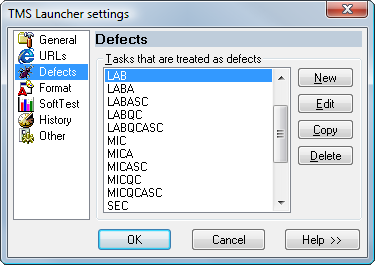
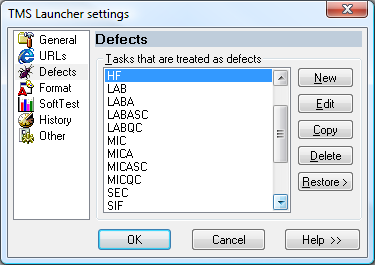
Modified HTML help for version 3.1

diff --git a/Help/whats_new.html b/Help/whats_new.html
@@ -19,30 +19,18 @@
 <H2 align="center" class="boldfont">What's new in this release?</H2>
 <H4 align="justify" class="font">
 <UL>
-  <LI>Tasks that have digits in client name like MAR2A-00045, DEV1-00001 can be opened now
-  <LI>Added support for MS Windows Vista and Internet Explorer 8
-  <LI>Added new "Related tasks" button to main window
-  <LI>Added "Other" page to Settings window with:
-    <UL>
-      <LI>Ability to customize transparency of main window
-      <LI>Hotkey for fast window activation
-      <LI>Flag to set focus to "Task Name" field when window is activated
-      <LI>Flag to highlight text in "Task Name" field when window is activated
-    </UL>
-  <LI>"Autologin" feature can be automatically enabled in IE after user enters "Login"/"Password" for an URL
-  <LI>Added ability to reassign already used hotkeys in URLs
-  <LI>Added ability to open and copy tasks from History page of Settings window
-  <LI>Small user interface changes
-  <LI>Command line syntax has been extended (see <a class="font" href="Features\commandline.html">Command line interface</a> for more details):
-     <UL>
-         <LI>Added option that allows to view SPC linked tasks for the list of given ones:<br>
-             <b>TMS_Launcher -spc -name "<i>NAME</i>" -prod "<i>PROD</i>" -stat "<i>STAT</i>" -msp "<i>MSP</i>" <i>input_file output_file</i></b>
-         <LI>Added option that allows to view PRODUCT, STATUS, MS PROJECT for the list of given tasks:<br>
-             <b>TMS_Launcher -inf -name "<i>NAME</i>" -prod "<i>PROD</i>" -stat "<i>STAT</i>" -msp "<i>MSP</i>" input_file output_file</b>
-         <LI>Added option that allows to find tasks that match or do not match the given regular expression<br>
-             <b>TMS_Launcher -exp "<i>EXPRESSION</i>" <i>input_file output_file</i></b>
-         <LI>Negative search logic can be turned on by adding "!" before an expression in all filters
-     </UL>
+  <LI>Added ability to open <a class="font" href="Features\open_hf_sif.html">Software Installation Forms</a>
+  <LI>Added ability to open <a class="font" href="Features\open_hf_sif.html">Hotfixes</a> in:<br>
+  <UL>
+    <LI><b>Short format (without revision specified) - HF 1.3590</b><br>
+      In this case, "View Task" button opens web-page with ACTIVE revisions of the hotfix.<br>
+      Other buttons "Children", "Parent" and "Related" open web-page with ALL revisions of the hotfix.
+    <LI><b>Full format (with revision specified) - HF 1.3590.8</b><br>
+      In this case, web-page with detailed information about specified hotfix revision opens. 
+  </UL>
+  <LI>Added "Restore" button with commands to restore SIF and HF records on <a class="font" href="Settings\defects.html">Defects page</a>
+  <LI>Allow saving characters with ASCII code > 127 in "Separators" and "Tasks Separators" fields
+  <LI>Added new default separators: No-Brake Space, En Dash, Em Dash. This will allow to open tasks with these separators
   <LI>Several bugs fixed
 </UL>
 </H4>

diff --git a/Help/Features/open_hf_sif.html b/Help/Features/open_hf_sif.html
@@ -1,0 +1,37 @@
+<!-- @(#)$RCSfile: open_hf_sif.html,v $$Revision: $$Date: $ -->
+<HTML>
+<HEAD>
+  <TITLE> TMS Launcher HTML Help </TITLE>
+  <meta http-equiv="Content-Type" content="text/html; charset=windows-1251">
+  <link rel="STYLESHEET" href="..\style.css" type="text/css">
+</HEAD>
+
+<BODY>
+<table border="0">
+<tr>
+   <td><IMG SRC="Pictures\logo.gif"></td>
+   <td class="caption"> Launcher</td>
+</tr>
+</table>
+
+<hr size="1" noshade>
+
+<H2 align="center" class="boldfont">Opening Software Installation Forms and Hotfixes</H2>
+<P align="justify" class="font">
+Software Installation Forms (SIF) and Hotfixes (HF) are considered by TMS Launcher as special types of SoftTest defects. 
+Special records "SIF" and "HF" are created on <a href="..\Settings\defects.html">Defects page</a> of settings window.<br>
+These records allow opening SIF and HF using special URLs different than regular defect records have. Additionally, special HF URLs
+allow to parse entered HF number using special rules different than those used for TMS tasks and regular SoftTest defects.
+However, it is still possible to open regular defects with client prefixes "SIF" and "HF" but URLs should be manually modified for this.
+Original "SIF" and "HF" records can then be restored with new button "Restore" added to <a href="..\Settings\defects.html">Defects page</a> of settings window.
+<br><br>Hotfixes can be opened in the following formats:
+<UL class="font">
+    <LI><b>Short format (without revision specified) - HF 1.3590</b>
+    <br>In this case, "View Task" button opens web-page with ACTIVE revisions of the hotfix.
+    <br>Other buttons "Children", "Parent" and "Related" open web-page with ALL revisions of the hotfix.
+    <LI><b>Full format (with revision specified) - HF 1.3590.8</b>
+    <br>In this case, web-page with detailed information about specified hotfix revision opens.
+</UL>
+</P>
+</BODY>
+</HTML>

diff --git a/Help/introduction.html b/Help/introduction.html
@@ -18,7 +18,7 @@
 
 <H2 align="center" class="boldfont">Introduction</H2>
 <P>
-<H4 align="justify" class="font">TMS Launcher is a tool that allows user to open TMS tasks, SoftTest defects and links in a browser window. Also since version 2.2 defects can be opened in SoftTest application directly. The tool does not require installation (only one executable file), it is easy to configure and use.</H4>
+<H4 align="justify" class="font">TMS Launcher is a tool that allows user to open TMS tasks, SoftTest defects, Software Installation Forms, Hotfixes and links in a browser window. Also since version 2.2 defects can be opened in SoftTest application directly. The tool does not require installation (only one executable file), it is easy to configure and use.</H4>
 </P>
 <P>
 <H4 align="justify" class="font"><U>System requirements</U>: IBM PC with one of the following OS: Windows 95/98/Me, Windows NT 4.0/2000/XP/2003/Vista. 

diff --git a/Help/mainfeatures.html b/Help/mainfeatures.html
@@ -20,6 +20,8 @@
 <UL>
   <LI><a class="font" href="Features\opentasks.html">Opening TMS tasks</a>
   <LI><a class="font" href="Features\opendefects.html">Opening SoftTest defects</a>
+  <LI><a class="font" href="Features\open_hf_sif.html">Opening Software Installation Forms</a>
+  <LI><a class="font" href="Features\open_hf_sif.html">Opening Hotfixes</a>
   <LI><a class="font" href="Features\openlinks.html">Opening links</a>
   <LI><a class="font" href="Features\commandline.html">Command line interface</a>
   <LI><a class="font" href="Features\systraymenu.html">System tray menu</a>

diff --git a/Help/credits.html b/Help/credits.html
@@ -18,7 +18,7 @@
 
 <H2 align="center" class="boldfont">Credits</H2>
 <P align="justify" class="font">
-Designed and developed by Oleg Lypkan. Copyright &copy; 2005-2009, Information Systems Development.<br><br>
+Designed and developed by Oleg Lypkan. Copyright &copy; 2005-2010, Information Systems Development.<br><br>
 Special thanks to: Andrey Goryainov, Alexey Tjurin, Pavel Dovgay, Peter Sukhenko, Anton Krivosheya, Anatoliy Nikolenko, Vladimir Frolov, Olena Lunova and Olga Pervunina for ideas, remarks and testing.
 </P>
 </BODY>
